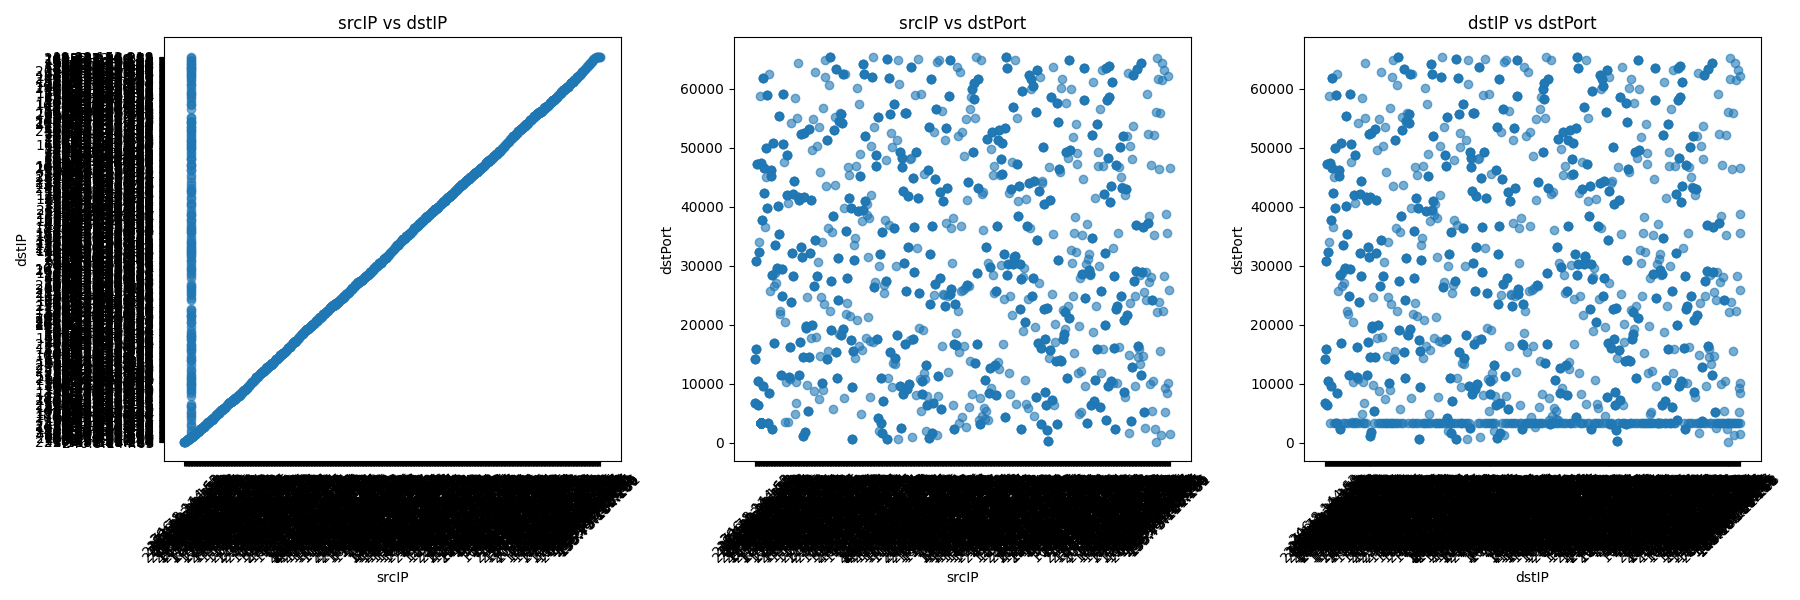
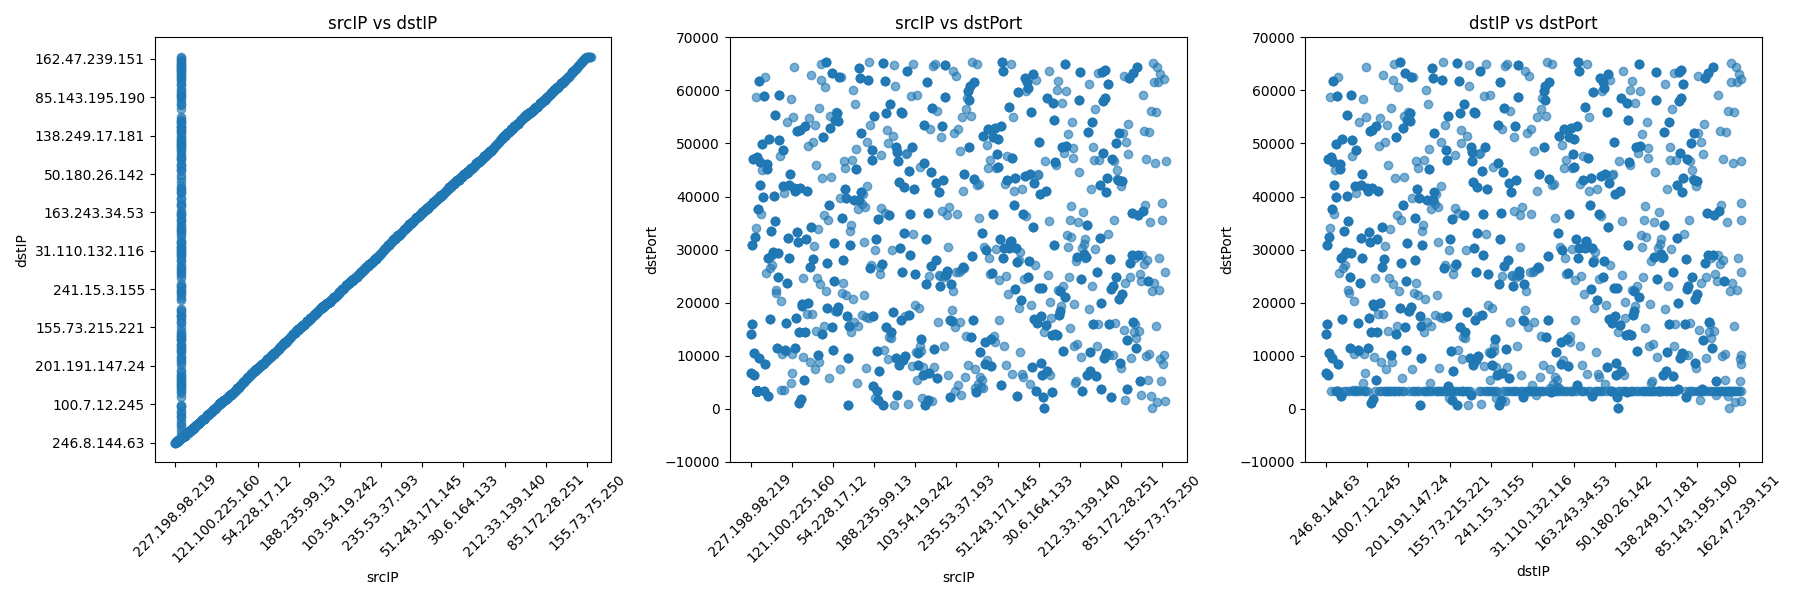
more pretty pictures

diff --git a/rep24.py b/rep24.py
@@ -13,6 +13,13 @@ def scatter_combined(df, plot_prefix):
     axs[0].set_xlabel("srcIP")
     axs[0].set_ylabel("dstIP")
     axs[0].tick_params(axis='x', rotation=45)
+
+    xticks = axs[0].get_xticks()
+    axs[0].set_xticks(xticks[::max(1, len(xticks) // 10)])  # Show every 10th tick
+
+    yticks = axs[0].get_yticks()
+    axs[0].set_yticks(yticks[::max(1, len(yticks) // 10)])  # Show every 10th tick
+
     axs[0].set_title("srcIP vs dstIP")
 
     # Plot 2: srcIP vs dstPort
@@ -20,6 +27,13 @@ def scatter_combined(df, plot_prefix):
     axs[1].set_xlabel("srcIP")
     axs[1].set_ylabel("dstPort")
     axs[1].tick_params(axis='x', rotation=45)
+
+    xticks = axs[1].get_xticks()
+    axs[1].set_xticks(xticks[::max(1, len(xticks) // 10)])  # Show every 10th tick
+
+    yticks = axs[1].get_yticks()
+    axs[1].set_yticks(yticks[::max(1, len(yticks) // 10)])  # Show every 10th tick
+
     axs[1].set_title("srcIP vs dstPort")
 
     # Plot 3: dstIP vs dstPort
@@ -27,6 +41,13 @@ def scatter_combined(df, plot_prefix):
     axs[2].set_xlabel("dstIP")
     axs[2].set_ylabel("dstPort")
     axs[2].tick_params(axis='x', rotation=45)
+
+    xticks = axs[2].get_xticks()
+    axs[2].set_xticks(xticks[::max(1, len(xticks) // 10)])  # Show every 10th tick
+
+    yticks = axs[2].get_yticks()
+    axs[2].set_yticks(yticks[::max(1, len(yticks) // 10)])  # Show every 10th tick
+
     axs[2].set_title("dstIP vs dstPort")
 
     plt.tight_layout()
@@ -58,56 +79,6 @@ def analyze_pcap(filename, plot_prefix):
     # Scatter plots
     scatter_combined(df, plot_prefix)
 
-    # Analysis
-    src_counts = df["srcIP"].value_counts()
-    dst_counts = df["dstIP"].value_counts()
-    dst_port_counts = df["dstPort"].value_counts()
-
-    unique_src = df["srcIP"].nunique()
-    unique_dst = df["dstIP"].nunique()
-    unique_ports = df["dstPort"].nunique()
-
-    suspected_attacker = src_counts.idxmax()
-    top_dst = dst_counts.idxmax()
-
-    result = {}
-
-    if "ICMP" in df["proto"].values:
-        result["type"] = "ping flood attack"
-    elif unique_dst > 10 and unique_ports <= 5:
-        result["type"] = "horizontal scan"
-    elif unique_dst <= 5 and unique_ports > 10:
-        result["type"] = "vertical scan"
-    elif unique_src > 10 and dst_counts.max() > 100:
-        result["type"] = "DDoS attack"
-    elif dst_port_counts.max() > 20:
-        result["type"] = "brute force attack"
-    else:
-        result["type"] = "unknown"
-
-    result["attacker"] = (
-        suspected_attacker if result["type"] != "DDoS attack" else "multiple"
-    )
-    result["target"] = top_dst
-    result["port"] = (
-        df[df["dstIP"] == top_dst]["dstPort"].mode().values[0]
-        if not df[df["dstIP"] == top_dst]["dstPort"].isnull().all()
-        else "N/A"
-    )
-    result["num_targets_or_ports"] = (
-        unique_ports
-        if result["type"] in ["vertical scan", "brute force attack"]
-        else unique_dst
-    )
-    result["found_vulnerable"] = "yes" if dst_port_counts.max() > 10 else "no"
-    result["num_vulnerable"] = sum(dst_port_counts > 10)
-    result["ddos_ack"] = (
-        "not applicable" if result["type"] != "DDoS attack" else dst_counts.max(
-        )
-    )
-
-    return result
-
 
 if __name__ == "__main__":
 
@@ -129,13 +100,4 @@ if __name__ == "__main__":
     for file in files:
         plot_prefix = file["prefix"]
 
-        result = analyze_pcap(file["filename"], plot_prefix)
-
-        print(f"{plot_prefix}-a: {result['type']}")
-        print(f"{plot_prefix}-b: {result['attacker']}")
-        print(f"{plot_prefix}-c: {result['target']}")
-        print(f"{plot_prefix}-d: {result['port']}")
-        print(f"{plot_prefix}-e: {result['num_targets_or_ports']}")
-        print(f"{plot_prefix}-f: {result['found_vulnerable']}")
-        print(f"{plot_prefix}-g: {result['num_vulnerable']}")
-        print(f"{plot_prefix}-h: {result['ddos_ack']}\n")
+        analyze_pcap(file["filename"], plot_prefix)
